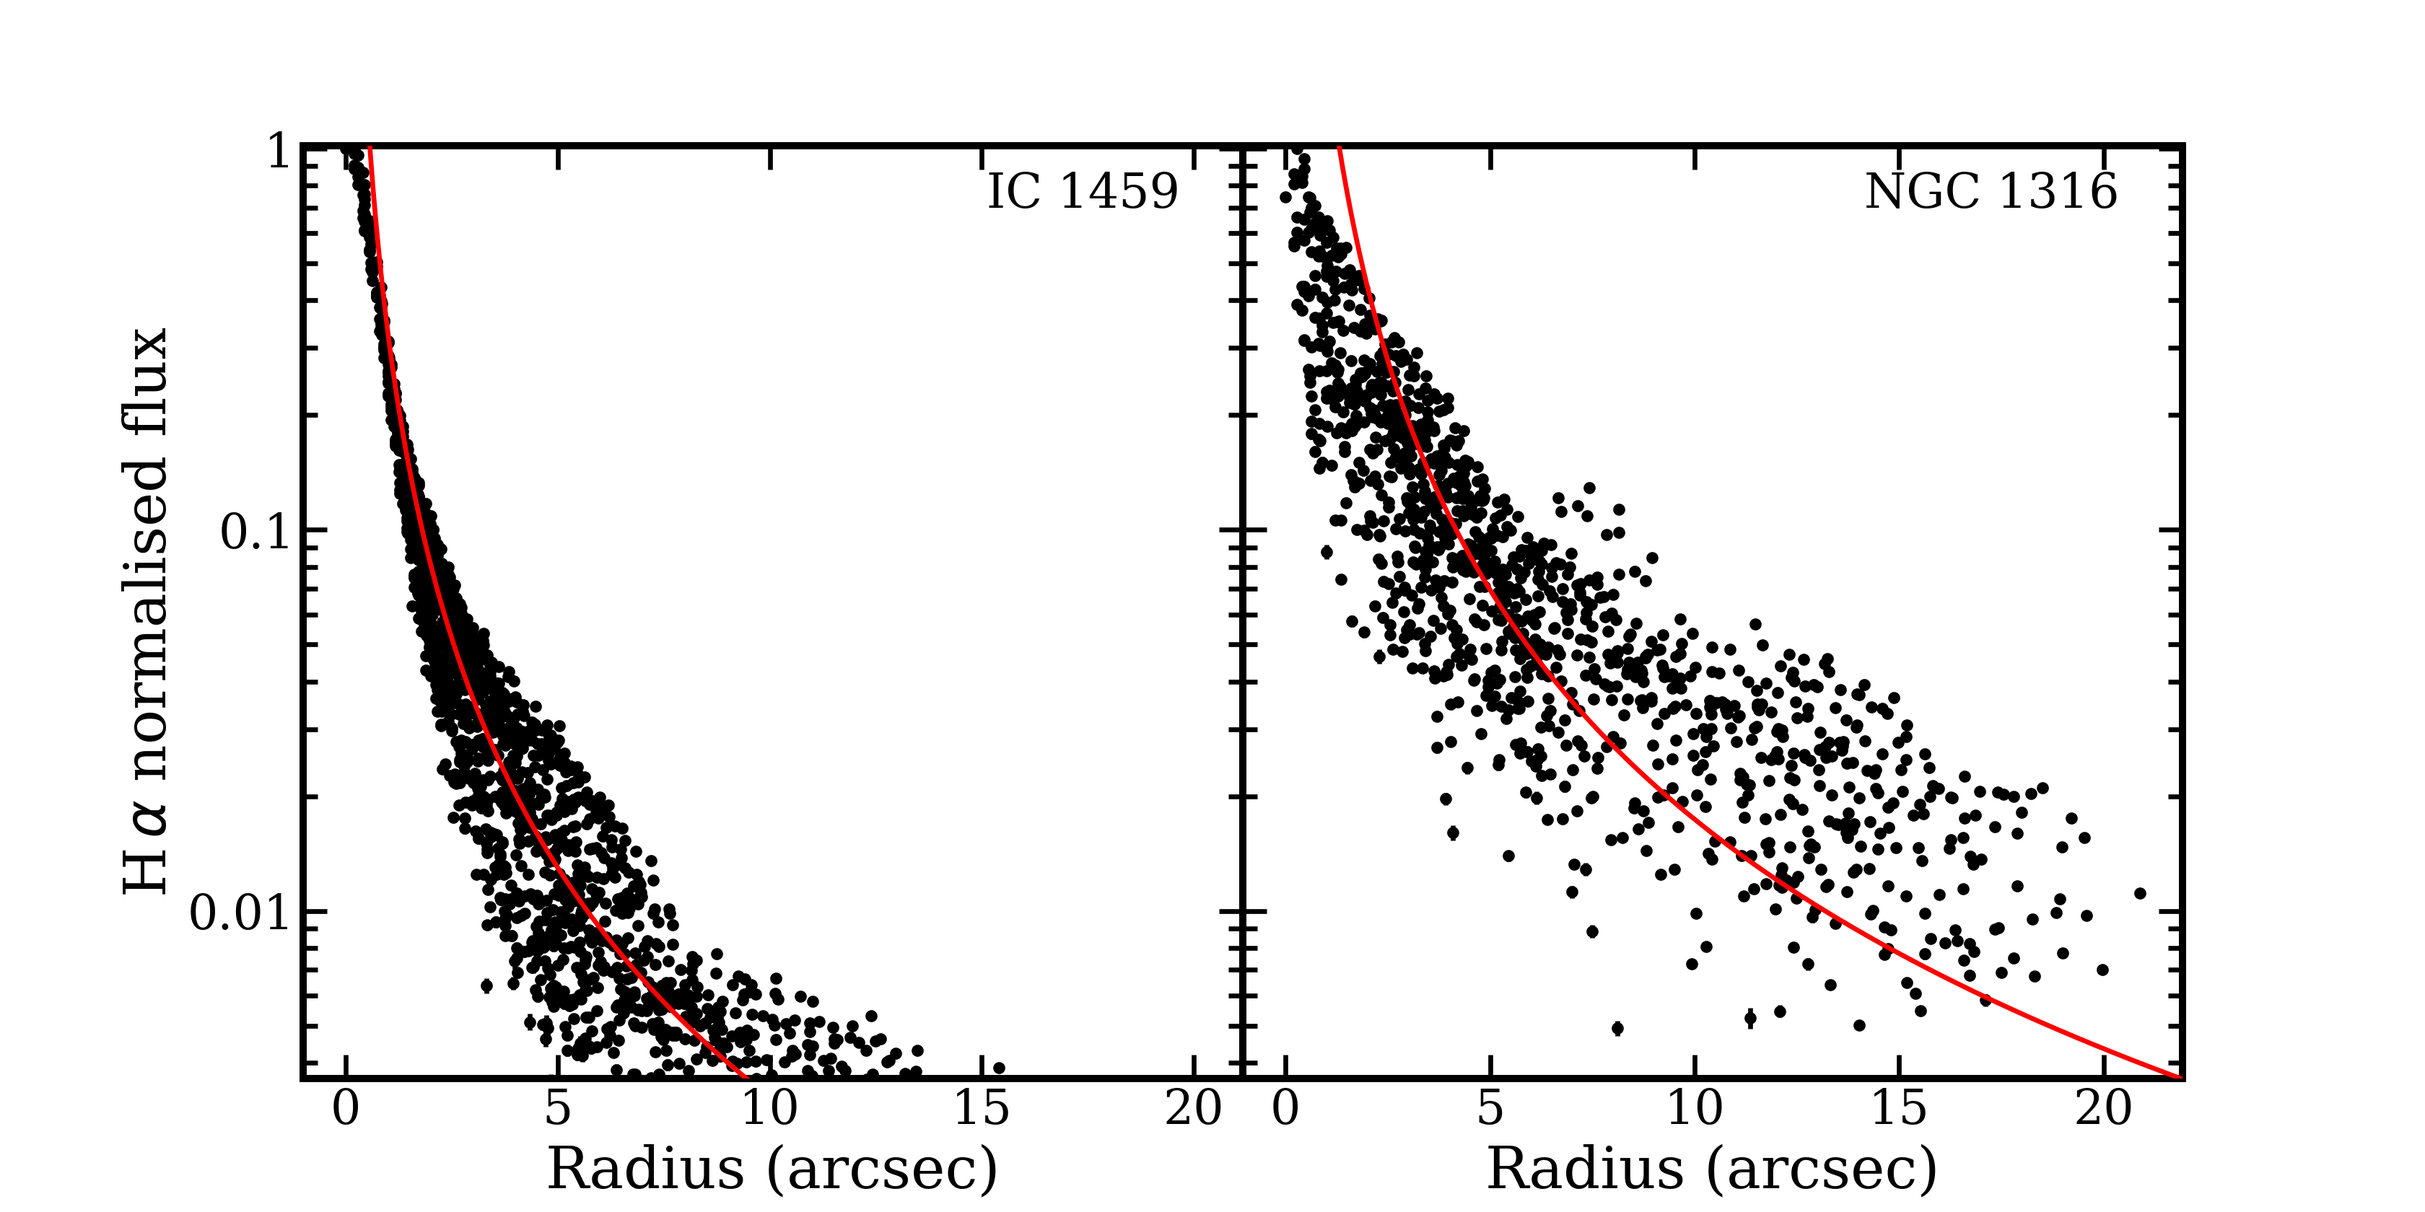
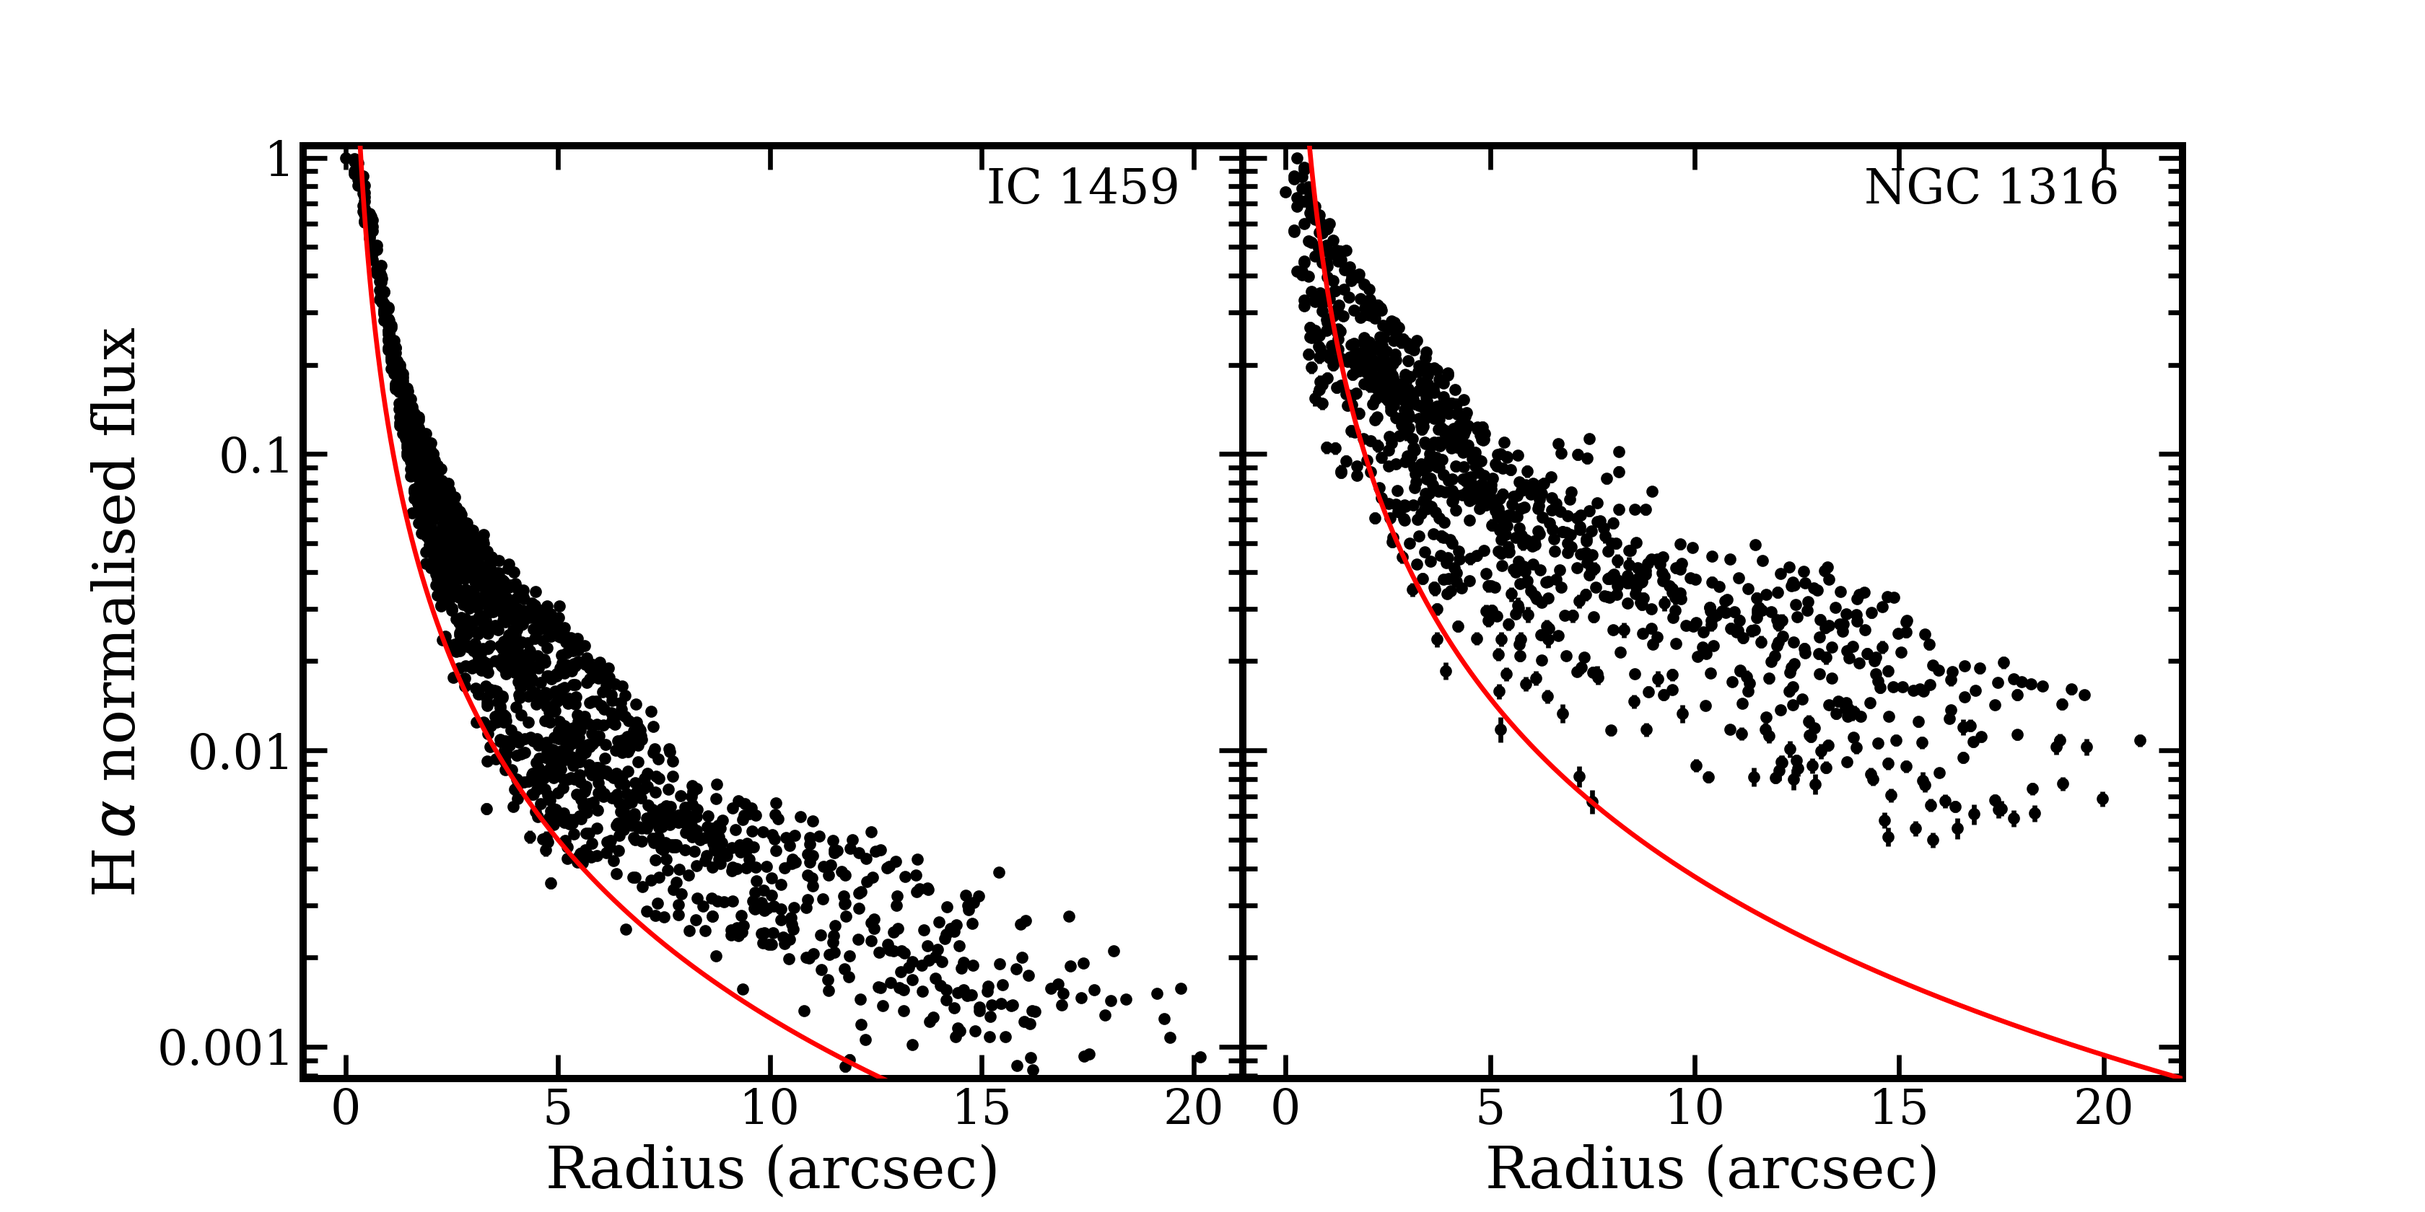
Re-run all routines involving kinematics of ngc1316
Required following the re-running of analysis of ngc1316 on glamdring
for uncertainies.

 On branch master
 Changes to be committed:
	modified:   chapter4/lambda_R.png
	modified:   chapter4/muse/abs2.png
	modified:   chapter4/muse/kin1.png
	modified:   chapter4/muse/pop1.png
	modified:   chapter4/plot_resolved_lambda_R.py
	modified:   chapter4/produce_abs_plot.py
	modified:   chapter4/produce_plots.py
	modified:   chapter4/produce_pop_plot.py
	modified:   chapter5/BPT.png
	modified:   chapter5/chapter5.tex
	modified:   chapter5/muse/Halpha_profile.png
	modified:   chapter5/muse/Hb.png
	modified:   chapter5/muse/kin.png
	modified:   chapter5/ngc1316_inflow.png
	modified:   chapter5/produce_kine_plot.py
	modified:   chapter5/vimos/Hbeta_profile.png

diff --git a/chapter5/produce_kine_plot.py b/chapter5/produce_kine_plot.py
@@ -36,6 +36,13 @@ def plot(galaxies, str_galaxies, file_name, instrument, debug=False):
 	out_dir = '%s/Documents/thesis/chapter5/%s' % (cc.home_dir, instrument)
 
 	for i, galaxy in enumerate(galaxies):
+		if debug:
+			from produce_plots import Ds
+			D = Ds()
+		else:
+			D = Data(galaxy, instrument=instrument, opt=opt)
+			opt = D.opt
+
 		print galaxy
 
 		vin_dir = '%s/Data/%s/analysis' % (cc.base_dir, instrument)
@@ -52,12 +59,6 @@ def plot(galaxies, str_galaxies, file_name, instrument, debug=False):
 		attr, vmin, vmax = np.loadtxt('%s/lims.txt' % (vin_dir), dtype=str, 
 			usecols=(0,1,2), skiprows=1, unpack=True)
 		vmin, vmax = vmin.astype(float), vmax.astype(float)
-
-		if debug:
-			from produce_plots import Ds
-			D = Ds()
-		else:
-			D = Data(galaxy, instrument=instrument, opt=opt)
 
 		f = fits.open(get_dataCubeDirectory(galaxy))
 		if instrument == 'vimos':
@@ -251,14 +252,6 @@ def ngc3100_NI_Hb():
 	header = f[0].header
 	f.close()
 
-	vin_dir = '%s/Data/%s/analysis/%s/%s' % (cc.base_dir, instrument, 
-		galaxy, opt)
-
-	# D = Ds()
-	# pickle_file = '%s/pickled' % (vin_dir)
-	# pickleFile = open("%s/dataObj.pkl" % (pickle_file), 'rb')
-	# D = pickle.load(pickleFile)
-	# pickleFile.close()
 	D = Data(galaxy, instrument=instrument, opt=opt)
 
 	ax = plot_velfield_nointerp(D.x, D.y, D.bin_num, D.xBar, D.yBar, 
@@ -294,14 +287,6 @@ def ngc1316_inflow():
 	header = f[1].header
 	f.close()
 
-	vin_dir = '%s/Data/%s/analysis/%s/%s' % (cc.base_dir, instrument, 
-		galaxy, opt)
-
-	# D = Ds()
-	# pickle_file = '%s/pickled' % (vin_dir)
-	# pickleFile = open("%s/dataObj.pkl" % (pickle_file), 'rb')
-	# D = pickle.load(pickleFile)
-	# pickleFile.close()
 	D = Data('ngc1316', instrument=instrument, opt=opt)
 
 	vel = D.components['[OIII]5007d'].plot['vel']
@@ -389,14 +374,8 @@ def BPT():
 		i_gal = np.where(galaxy_gals==galaxy)[0][0]
 		center = (x_cent_gals[i_gal], y_cent_gals[i_gal])
 
-		output = '%s/%s/%s' % (analysis_dir, galaxy, D.opt)
-		# pickleFile = open('%s/pickled/dataObj.pkl' % (output))
-		# D = pickle.load(pickleFile)
-		# pickleFile.close()
-		# D=Ds()
 		D = Data(galaxy, instrument=instrument, opt=opt)
-
-
+		opt = D.opt
 
 		r = np.sqrt((D.xBar - center[0])**2 + (D.yBar - center[1])**2)
 		for i, l in enumerate(['[NII]6583d', '[SII]6716', '[OI]6300d']):
@@ -620,13 +599,6 @@ def WHbN1():
 	Prefig()
 	fig, ax = plt.subplots()
 
-	# galaxies = np.array(['eso443-g024', 'ic1459', 'ic1531', 'ic4296', 
-	# 	'ngc0612', 'ngc1399', 'ngc3100', 'ngc3557', 'ngc7075', 
-	# 	'pks0718-34'])
-	# str_galaxies = np.array(['ESO 443-G24', 'IC 1459', 'IC 1531', 'IC 4296', 
-	# 	'NGC 612', 'NGC 1399', 'NGC 3100', 'NGC 3557', 'NGC 7075', 
-	# 	'PKS 718-34'])
-
 	galaxies = np.array(['ic1459', 'ic1531', 'ic4296', 'ngc3100', 'ngc3557', 
 		'ngc7075'])
 	str_galaxies = np.array(['IC 1459', 'IC 1531', 'IC 4296', 'NGC 3100', 
@@ -638,10 +610,6 @@ def WHbN1():
 
 	for i, galaxy in enumerate(galaxies):
 		print 'WHbN1:', galaxy
-		# pickleFile = open('%s/Data/vimos/analysis/%s' % (cc.base_dir, galaxy) 
-		# 	+ '/pop/pickled/dataObj.pkl')
-		# D = pickle.load(pickleFile)
-		# pickleFile.close()
 		D = Data(galaxy, instrument='vimos', opt='pop')
 
 		if all([l in D.e_components for l in ['[NI]d', 'Hbeta']]):
@@ -760,7 +728,6 @@ def H_profile(instrument='vimos'):
 	from matplotlib import ticker
 	print '**************Need to correctly set seeing************'
 
-	seeing_sigma = 1#1.2 * 2.5
 
 	if instrument=='vimos':
 		galaxies = np.array(['ic1459', 'ngc0612', 'ngc3100'])
@@ -776,7 +743,7 @@ def H_profile(instrument='vimos'):
 		res = 0.2 # arcsec/pix
 
 	Prefig(size=np.array((len(galaxies), 1))*7)
-	fig, ax = plt.subplots(1, len(galaxies), sharey=True)#, sharex=True)
+	fig, ax = plt.subplots(1, len(galaxies), sharey=True)
 
 	analysis_dir = "%s/Data/%s/analysis" % (cc.base_dir, instrument)
 	galaxiesFile = "%s/galaxies.txt" % (analysis_dir)
@@ -788,12 +755,31 @@ def H_profile(instrument='vimos'):
 
 	for i, galaxy in enumerate(galaxies):
 		print 'H profile:', galaxy
-		# pickleFile = open('%s/Data/%s/analysis/%s' % (cc.base_dir, 
-		# 	instrument, galaxy) + '/pop/pickled/dataObj.pkl')
-		# D = pickle.load(pickleFile)
-		# pickleFile.close()
-		# D = Ds()
 		D = Data(galaxy, instrument=instrument, opt='pop')
+
+		if galaxy=='ic1459' and instrument=='vimos':
+			seeing_sigma = np.mean([0.82,0.84,1.20,1.26,1.10,1.27]) * 2.5
+			norm_r = 2.5
+			norm_y = 0.04
+		elif galaxy=='ngc0612':
+			seeing_sigma = np.mean([0.72,0.78,1.45,1.46,1.08,1.11]) * 2.5
+			norm_r = 2.5
+			norm_y = 0.2
+		elif galaxy=='ngc3100':
+			seeing_sigma = np.mean([0.76,0.82,0.75,0.82,1.16,1.20]) * 2.5
+			norm_r = 2
+			norm_y = 0.15
+		elif instrument=='muse':
+			from errors2_muse import get_dataCubeDirectory
+			f=fits.open(get_dataCubeDirectory(galaxy))
+			seeing_sigma = np.mean([f[0].header['ESO TEL AMBI FWHM START'],
+				f[0].header['ESO TEL AMBI FWHM START']]) * 2.5
+			if galaxy=='ic1459':
+				norm_r = 5
+				norm_y = 0.005
+			elif galaxy=='ngc1316':
+				norm_r = 5
+				norm_y = 0.015
 
 		i_gal = np.where(galaxy_gals==galaxy)[0][0]
 		center = (x_cent_gals[i_gal], y_cent_gals[i_gal])
@@ -803,26 +789,19 @@ def H_profile(instrument='vimos'):
 
 			H = D.e_line[line].flux
 
-		# myerrorbar(ax, r, Hb, yerr=Hb.uncert,
-		# 	color=np.log10(D.e_line['[OIII]5007d'].flux/1.35\
-		# 	/ D.e_line['Hbeta'].flux).clip(-1,1))
-
 			ax[i].errorbar(r, H/np.nanmax(H), yerr=H.uncert/np.nanmax(H), 
 				fmt='.', color='k')
 
 			o = np.argsort(r)
 
-		# ax.plot(r[o][1:], Hb[np.argmin(np.abs(r-1))] * r[o][1:]**-2, 'k')
 			lim = ax[i].get_xlim()
 			x = np.arange(-seeing_sigma, lim[1], 0.001)
-			y = np.nanmedian(r[o][np.isfinite(H[o])])**2 \
-				* np.nanmedian(H[o][np.isfinite(H[o])])/x**2 / np.nanmax(H)
-## Inital attempts at convolving to account for seeing - need to check comments again
-			# y = ndimage.gaussian_filter1d(1/x**2, seeing_sigma)
-			# y /= y[np.argmin(np.abs(x - r[np.where(H == np.nanmax(H))[0][0]]))]
+
+			y = 1/x**2
+			y = ndimage.gaussian_filter1d(y, seeing_sigma) # convolve with seeing
+			y = norm_y * norm_r**2 * y # normalised by eye
 
 			ax[i].plot(x[x>=0], y[x>=0], zorder=10, color='r')
-			# ax[i].plot(x, 1/x**2, 'k', zorder=10, color='r')
 			ax[i].set_xlim(lim)
 
 			ax[i].text(0.93*lim[1], 0.7, str_galaxies[i], ha='right')
@@ -834,9 +813,6 @@ def H_profile(instrument='vimos'):
 				width=2)
 			ax[i].tick_params(axis='y', which='minor', direction='in', 
 				length=6, width=2)
-			# import matplotlib
-			# ax[i].get_xaxis().set_major_formatter(
-			# 	matplotlib.ticker.ScalarFormatter())
 			for axis in [ax[i].xaxis, ax[i].yaxis]:
 				axis.set_major_formatter(
 					ticker.FuncFormatter(lambda y, _: '{:g}'.format(y)))
@@ -847,14 +823,11 @@ def H_profile(instrument='vimos'):
 		ax[0].set_ylabel(r'H$\,\alpha$ normalised flux')
 	for a in ax:
 		a.set_xlabel('Radius (arcsec)')
-	# for a in ax[1:].flatten():
-	# 	a.set_yticklabels([])
-	# 	a.set_ylabel('')
 
 	fig.subplots_adjust(wspace=0,hspace=0)
 	fig.savefig('%s/Documents/thesis/chapter5/%s/%s_profile.png' % (
 		cc.home_dir, instrument, line), dpi=240)
-	plt.close(fig)
+	plt.close('all')
 	
 
 
@@ -869,14 +842,14 @@ if __name__=='__main__':
 		
 		# SAURON()
 
-	plot(['ic1459', 'ngc0612', 'ngc3100'], 
-		['IC 1459', 'NGC 612', 'NGC 3100'], 'kin', 'vimos')
+		# plot(['ic1459', 'ngc0612', 'ngc3100'], 
+		# 	['IC 1459', 'NGC 612', 'NGC 3100'], 'kin', 'vimos')
 	# elif cc.device == 'uni':
 		# ic4296_WHaN2()
 
-	# H_profile(instrument='vimos')
+	# H_profile(instrument='muse')
 
-		# ngc1316_inflow()
+	ngc1316_inflow()
 
 	# BPT()
 

diff --git a/chapter5/chapter5.tex b/chapter5/chapter5.tex
@@ -246,13 +246,13 @@ This chapter is structured as follows. Firstly in Section \ref{sec:GasFlux} the 
 		\begin{figure}
 			\centering
 			\includegraphics[width=0.73\textwidth]{chapter5/muse/Halpha_profile.png}
-			\caption[MUSE H$\alpha$ radial profiles]{H$\alpha$ flux radial profiles derived from the MUSE datacubes. Solid red lines show $F(\mathrm{H\alpha}) \propto r^{-2}$.\label{fig:Ha_profile_MUSE}} 
+			\caption[MUSE H$\alpha$ radial profiles]{H$\alpha$ flux radial profiles derived from the MUSE datacubes. Solid red lines show $F(\mathrm{H\alpha}) \propto r^{-2}$ convolved with a Gaussian function of width equal to the mean seeing taken from the fits file headers. This accounts for the point-spread function (PSF) of the observations.\label{fig:Ha_profile_MUSE}} 
 		% \end{figure}
 
 		% \begin{figure}
 		% 	\centering
 			\includegraphics[width=1.1\textwidth]{chapter5/vimos/Hbeta_profile.png}
-			\caption[VIMOS H$\beta$ radial profiles]{H$\beta$ flux radial profiles derived from the VIMOS datacubes. Solid red lines show $F(\mathrm{H\beta}) \propto r^{-2}$.\label{fig:Hb_profile_VIMOS}} 
+			\caption[VIMOS H$\beta$ radial profiles]{H$\beta$ flux radial profiles derived from the VIMOS datacubes. Solid red lines show $F(\mathrm{H\beta}) \propto r^{-2}$ convolved with a Gaussian function of width equal to the mean seeing (see Table \ref{tab:observations}). This accounts for the PSF of the observations. \label{fig:Hb_profile_VIMOS}} 
 		\end{figure}
 		
 		As discussed in Section \ref{sec:ETG}, many galaxies classified as LINERs are in fact LIERs \citep[see e.g.][]{Sarzi2005, Sarzi2010, Singh2013, Belfiore2016}, i.e.\ the source of the ionizing radiation is not concentrated in the nuclear regions of the galaxies. As we can see from Figs.\ref{fig:BPT} and \ref{fig:SAURON}, most bins of a given galaxy are tightly grouped together on the BPT plots. To check if the ionizing radiation is entirely due to an AGN throughout the host galaxy, we plot the H$\alpha$ and H$\beta$ flux radial profiles for the MUSE and VIMOS data in Figs.\,\ref{fig:Ha_profile_MUSE} and \ref{fig:Hb_profile_VIMOS}, respectively. A point source, such as an AGN, will result in a profile having a $r^{-2}$ shape, where $r$ is the distance of the bin from the galaxy centre. A shallower profile points to a spatially-extended source, presumably non-circumnuclear stellar processes such as star formation or radiation from pAGB stars (see Section \ref{subsubsec:JetFeedback}), as the dominant cause of the ionization in the outer parts of the galaxy (i.e.\ LIER rather than LINER). All the galaxies with spatially-extended Balmer emission in our Southern Sample revel a central point source as the dominant source of the ionizing photons. The H$\beta$ profile of NGC 612 has a larger scatter suggesting that stellar processes also have some impact (likely radiation from pAGB stars, as these galaxies are ETGs and therefore likely have low star-formation rates).

diff --git a/chapter4/produce_abs_plot.py b/chapter4/produce_abs_plot.py
@@ -424,29 +424,29 @@ def plot(galaxies, str_galaxies, file_name, instrument='vimos',
 
 
 if __name__=='__main__':
-	plot(['ic1459', 'ic4296'], ['IC 1459', 'IC 4296'], 'abs1',
-		instrument='muse')
+	# plot(['ic1459', 'ic4296'], ['IC 1459', 'IC 4296'], 'abs1',
+	# 	instrument='muse')
 
 	plot(['ngc1316', 'ngc1399'], ['NGC 1316', 'NGC 1399'], 'abs2',
 		instrument='muse')
 
-	plot(['ic1459', 'ic4296'], ['IC 1459', 'IC 4296'], 'abs1b', 
-		instrument='muse2')
+	# plot(['ic1459', 'ic4296'], ['IC 1459', 'IC 4296'], 'abs1b', 
+	# 	instrument='muse2')
 
 	plot(['ngc1316', 'ngc1399'], ['NGC 1316', 'NGC 1399'], 'abs2b', 
 		instrument='muse2')
 
-	plot(['eso443-g024', 'ic1459'], ['ESO 443-G24', 'IC 1459'], 'abs1', 
-		instrument='vimos')
+	# plot(['eso443-g024', 'ic1459'], ['ESO 443-G24', 'IC 1459'], 'abs1', 
+	# 	instrument='vimos')
 
-	plot(['ic1531', 'ic4296'], ['IC 1531', 'IC 4296'], 'abs2', 
-		instrument='vimos')
+	# plot(['ic1531', 'ic4296'], ['IC 1531', 'IC 4296'], 'abs2', 
+	# 	instrument='vimos')
 
-	plot(['ngc0612', 'ngc1399'], ['NGC 612', 'NGC 1399'], 'abs3', 
-		instrument='vimos')
+	# plot(['ngc0612', 'ngc1399'], ['NGC 612', 'NGC 1399'], 'abs3', 
+	# 	instrument='vimos')
 
-	plot(['ngc3100', 'ngc3557'], ['NGC 3100', 'NGC 3557'], 'abs4', 
-		instrument='vimos')
+	# plot(['ngc3100', 'ngc3557'], ['NGC 3100', 'NGC 3557'], 'abs4', 
+	# 	instrument='vimos')
 
-	plot(['ngc7075', 'pks0718-34'], ['NGC7075', 'PKS 0718-34'], 'abs5', 
-		instrument='vimos')
+	# plot(['ngc7075', 'pks0718-34'], ['NGC7075', 'PKS 0718-34'], 'abs5', 
+	# 	instrument='vimos')

diff --git a/chapter4/produce_plots.py b/chapter4/produce_plots.py
@@ -26,7 +26,8 @@ class Ds(object):
 			'Hbeta':comp(), 'Halpha':comp(), '[NI]d':comp()}
 		self.e_line = {k:v for k,v in self.components.iteritems() 
 			if k!='stellar'}
-		self.e_components = self.e_line.keys()		self.flux = np.array([0,1,1,2])
+		self.e_components = self.e_line.keys()
+		self.flux = np.array([0,1,1,2])
 
 	def absorption_line(self, p, uncert=False):
 		if uncert:
@@ -327,17 +328,17 @@ if __name__=='__main__':
 	plot(['ic1459','ic4296','ngc1316'], ['IC 1459', 'IC 4296', 'NGC 1316'],
 		'kin1', instrument='muse')
 
-	plot(['ngc1399'], ['NGC 1399'], 'kin2', instrument='muse')
+	# plot(['ngc1399'], ['NGC 1399'], 'kin2', instrument='muse')
 
-	plot(['eso443-g024', 'ic1459'], ['ESO 443-G24', 'IC 1459'], 'kin1', 
-		instrument='vimos')
+	# plot(['eso443-g024', 'ic1459'], ['ESO 443-G24', 'IC 1459'], 'kin1', 
+	# 	instrument='vimos')
 
-	plot(['ic1531', 'ic4296', 'ngc1399'], ['IC 1531', 'IC 4296', 'NGC 1399'],
-		'kin2', instrument='vimos')
+	# plot(['ic1531', 'ic4296', 'ngc1399'], ['IC 1531', 'IC 4296', 'NGC 1399'],
+	# 	'kin2', instrument='vimos')
 
-	plot(['ngc3100', 'ngc3557', 'ngc7075'], 
-		['NGC 3100', 'NGC 3557', 'NGC 7075'], 'kin3', instrument='vimos')
+	# plot(['ngc3100', 'ngc3557', 'ngc7075'], 
+	# 	['NGC 3100', 'NGC 3557', 'NGC 7075'], 'kin3', instrument='vimos')
 
-	plot(['pks0718-34', 'ngc0612'], ['PKS 718-34', 'NGC 612'], 'kin4', 
-		instrument='vimos')
+	# plot(['pks0718-34', 'ngc0612'], ['PKS 718-34', 'NGC 612'], 'kin4', 
+	# 	instrument='vimos')
 

diff --git a/chapter4/produce_pop_plot.py b/chapter4/produce_pop_plot.py
@@ -245,16 +245,16 @@ if __name__=='__main__':
 	plot(['ic1459', 'ic4296', 'ngc1316'], 
 		['IC 1459', 'IC 4296', 'NGC 1316'], 'pop1', instrument='muse')
 
-	plot(['ngc1399'], ['NGC 1399'], 'pop2', instrument='muse')
+	# plot(['ngc1399'], ['NGC 1399'], 'pop2', instrument='muse')
 
-	plot(['eso443-g024', 'ic1459'], 
-		['ESO 443-G24', 'IC 1459'], 'pop1', instrument='vimos')
+	# plot(['eso443-g024', 'ic1459'], 
+	# 	['ESO 443-G24', 'IC 1459'], 'pop1', instrument='vimos')
 
-	plot(['ic1531', 'ic4296', 'ngc0612'], 
-		['IC 1531', 'IC 4296', 'NGC 612'], 'pop2', instrument='vimos')
+	# plot(['ic1531', 'ic4296', 'ngc0612'], 
+	# 	['IC 1531', 'IC 4296', 'NGC 612'], 'pop2', instrument='vimos')
 
-	plot(['ngc1399', 'ngc3100', 'ngc3557'], 
-		['NGC 1399', 'NGC 3100', 'NGC 3557'], 'pop3', instrument='vimos')
+	# plot(['ngc1399', 'ngc3100', 'ngc3557'], 
+	# 	['NGC 1399', 'NGC 3100', 'NGC 3557'], 'pop3', instrument='vimos')
 
-	plot(['ngc7075', 'pks0718-34'], 
-		['NGC 7075', 'PKS 0718-34'], 'pop4', instrument='vimos')
+	# plot(['ngc7075', 'pks0718-34'], 
+	# 	['NGC 7075', 'PKS 0718-34'], 'pop4', instrument='vimos')

diff --git a/chapter4/plot_resolved_lambda_R.py b/chapter4/plot_resolved_lambda_R.py
@@ -13,10 +13,6 @@ from classify import get_R_e
 from prefig import Prefig
 Prefig()
 
-import cPickle as pickle
-
-opt = 'kin'
-
 def label(galaxy):
 	if 'ic' in galaxy:
 		return 'IC ' + galaxy[2:]
@@ -43,6 +39,8 @@ def plot_lambda_R():
 				'ngc3557',
 				'ngc7075',
 				'pks0718-34']:
+		opt = 'kin'
+
 		lam_R_file = '%s/Data/vimos/analysis/%s/%s/lambda_R.txt' % (
 			cc.base_dir, galaxy, opt)
 		r, lam_R = np.loadtxt(lam_R_file, unpack=True)
@@ -57,10 +55,15 @@ def plot_lambda_R():
 			ha='center', va='bottom', size='x-small')
 
 	for galaxy in ['ic1459', 'ic4296', 'ngc1316', 'ngc1399']:
+		opt = 'pop_no_Na' if galaxy == 'ngc1316' else 'kin'
+
 		lam_R_file = '%s/Data/muse/analysis/%s/%s/lambda_R.txt' % (
 			cc.base_dir, galaxy, opt)
 		r, lam_R = np.loadtxt(lam_R_file, unpack=True)
-		r /= get_R_e(galaxy)
+		# print r
+		# print get_R_e(galaxy)
+		# asdas
+		# r /= get_R_e(galaxy)
 
 		if galaxy in FR:
 			ax.plot(r, lam_R, 'b')
